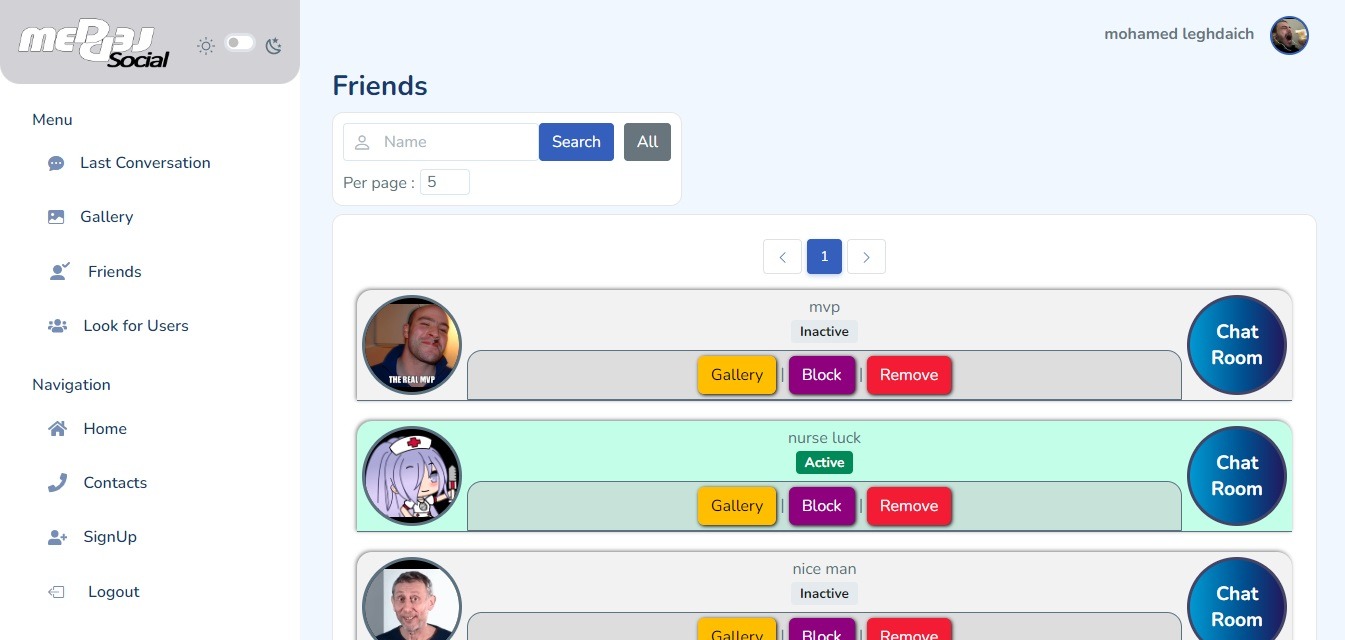
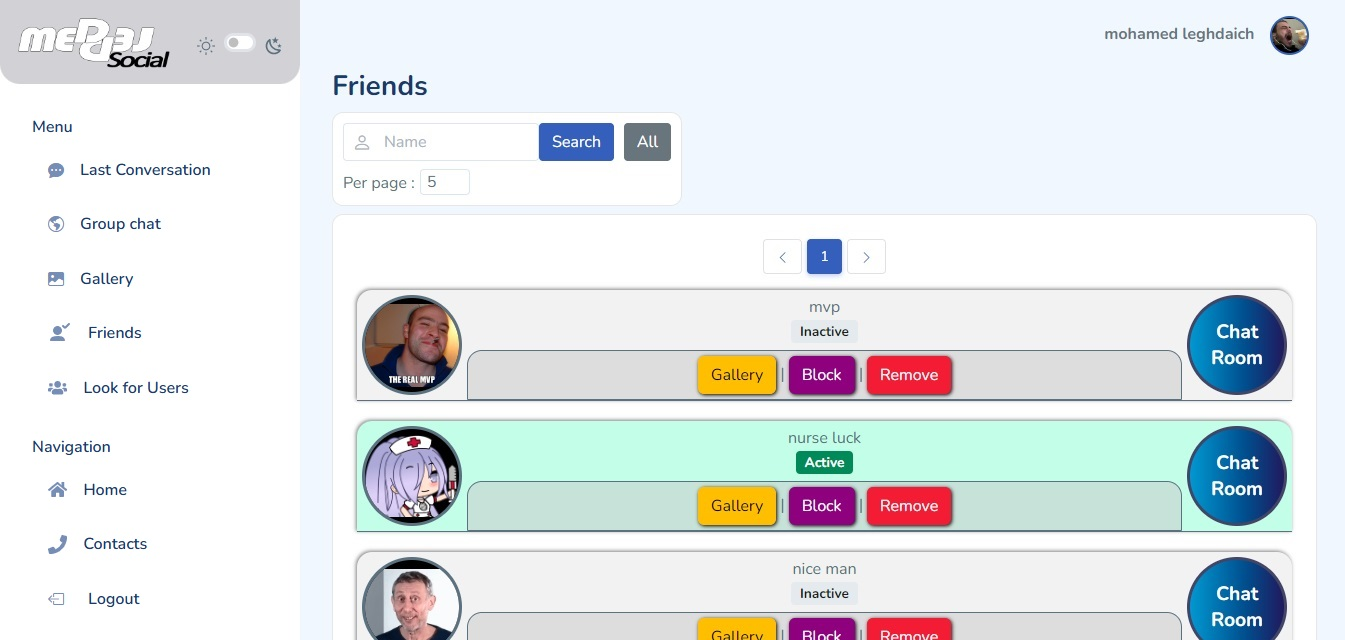
medled update (group chat) + add socket.IO

diff --git a/index-en.html b/index-en.html
@@ -136,7 +136,7 @@
             <div class="progress">
               <span class="skill">
                 <svg xmlns="http://www.w3.org/2000/svg" width="1.2rem" height="1.2rem" viewBox="25 25 200 200"><g fill="none"><path fill="#81cd39" d="M119.878 31.116c4.919-2.815 11.325-2.828 16.239 0c24.722 13.97 49.452 27.917 74.17 41.895c4.65 2.619 7.759 7.793 7.712 13.15v84.045c.035 5.579-3.382 10.877-8.287 13.436c-24.641 13.893-49.27 27.802-73.907 41.695c-5.019 2.87-11.554 2.649-16.418-.457c-7.387-4.282-14.787-8.544-22.175-12.822c-1.51-.9-3.212-1.616-4.278-3.08c.943-1.27 2.628-1.428 3.997-1.983c3.083-.981 5.916-2.555 8.748-4.082c.717-.49 1.591-.302 2.278.136c6.317 3.622 12.579 7.35 18.917 10.937c1.352.781 2.721-.256 3.877-.9c24.18-13.667 48.39-27.281 72.567-40.952c.896-.431 1.391-1.382 1.318-2.363c.017-27.725.004-55.454.009-83.18c.102-1.112-.542-2.136-1.549-2.592c-24.555-13.829-49.099-27.678-73.65-41.51a2.56 2.56 0 0 0-2.892-.005c-24.552 13.837-49.09 27.7-73.642 41.527c-1.003.457-1.676 1.464-1.557 2.58c.005 27.726 0 55.455 0 83.184a2.35 2.35 0 0 0 1.336 2.334c6.551 3.715 13.111 7.404 19.667 11.107c3.694 1.987 8.228 3.169 12.298 1.646c3.59-1.288 6.107-4.953 6.039-8.765c.034-27.563-.017-55.13.025-82.69c-.09-1.223 1.071-2.234 2.261-2.118c3.148-.022 6.3-.043 9.448.008c1.314-.03 2.218 1.288 2.056 2.52c-.013 27.738.034 55.476-.021 83.213c.008 7.393-3.029 15.437-9.867 19.054c-8.423 4.363-18.835 3.438-27.157-.746c-7.204-3.596-14.08-7.84-21.156-11.692c-4.918-2.545-8.318-7.864-8.283-13.439V86.161c-.052-5.468 3.182-10.736 7.975-13.317c24.637-13.903 49.27-27.818 73.902-41.728"/><path fill="#81cd39" d="M141.372 89.335c10.745-.692 22.248-.41 31.917 4.884c7.487 4.056 11.637 12.57 11.769 20.887c-.209 1.121-1.382 1.74-2.453 1.663c-3.117-.004-6.236.043-9.353-.021c-1.323.051-2.091-1.168-2.257-2.337c-.896-3.98-3.067-7.921-6.812-9.841c-5.75-2.878-12.416-2.733-18.687-2.673c-4.576.242-9.498.639-13.376 3.33c-2.977 2.039-3.881 6.155-2.819 9.47c1.002 2.38 3.749 3.148 5.997 3.856c12.95 3.387 26.672 3.049 39.373 7.506c5.26 1.817 10.404 5.35 12.204 10.856c2.355 7.38 1.323 16.2-3.928 22.124c-4.258 4.875-10.459 7.529-16.644 8.97c-8.228 1.835-16.767 1.882-25.123 1.067c-7.857-.896-16.034-2.96-22.099-8.313c-5.187-4.504-7.72-11.522-7.469-18.294c.06-1.144 1.199-1.942 2.295-1.848c3.139-.025 6.279-.034 9.418.005c1.254-.09 2.184.994 2.248 2.176c.579 3.791 2.004 7.771 5.31 10.018c6.381 4.117 14.388 3.835 21.694 3.95c6.052-.268 12.847-.349 17.787-4.35c2.606-2.282 3.378-6.1 2.674-9.384c-.763-2.773-3.664-4.065-6.155-4.91c-12.783-4.043-26.659-2.576-39.318-7.149c-5.14-1.816-10.11-5.25-12.084-10.53c-2.755-7.473-1.493-16.717 4.308-22.44c5.656-5.695 13.82-7.888 21.583-8.672"/></g></svg>
-                NODE/EXPRESS <i class="val">100%</i>
+                JS/NODE <i class="val">100%</i>
               </span>
               <div class="progress-bar-wrap">
                 <div class="progress-bar" role="progressbar" aria-valuenow="100" aria-valuemin="0" aria-valuemax="100"></div>
@@ -233,7 +233,7 @@
           <p><img src="assets/img/tools/splide.png"></p>
           <p><img src="assets/img/tools/emailjs.png"></p>
           <p><img src="assets/img/tools/axios.png"></p>
-          <p><img src="assets/img/tools/pusher.jpg"></p>
+          <p><img src="assets/img/tools/socketIO.png"></p>
           <p><img src="assets/img/tools/multer.png"></p>
           <p><img src="assets/img/tools/express-validator.jpg"></p>
           <p><img src="assets/img/tools/jwt.jpg"></p>

diff --git a/index-fr.html b/index-fr.html
@@ -135,7 +135,7 @@
             <div class="progress">
               <span class="skill">
                 <svg xmlns="http://www.w3.org/2000/svg" width="1.2rem" height="1.2rem" viewBox="25 25 200 200"><g fill="none"><path fill="#81cd39" d="M119.878 31.116c4.919-2.815 11.325-2.828 16.239 0c24.722 13.97 49.452 27.917 74.17 41.895c4.65 2.619 7.759 7.793 7.712 13.15v84.045c.035 5.579-3.382 10.877-8.287 13.436c-24.641 13.893-49.27 27.802-73.907 41.695c-5.019 2.87-11.554 2.649-16.418-.457c-7.387-4.282-14.787-8.544-22.175-12.822c-1.51-.9-3.212-1.616-4.278-3.08c.943-1.27 2.628-1.428 3.997-1.983c3.083-.981 5.916-2.555 8.748-4.082c.717-.49 1.591-.302 2.278.136c6.317 3.622 12.579 7.35 18.917 10.937c1.352.781 2.721-.256 3.877-.9c24.18-13.667 48.39-27.281 72.567-40.952c.896-.431 1.391-1.382 1.318-2.363c.017-27.725.004-55.454.009-83.18c.102-1.112-.542-2.136-1.549-2.592c-24.555-13.829-49.099-27.678-73.65-41.51a2.56 2.56 0 0 0-2.892-.005c-24.552 13.837-49.09 27.7-73.642 41.527c-1.003.457-1.676 1.464-1.557 2.58c.005 27.726 0 55.455 0 83.184a2.35 2.35 0 0 0 1.336 2.334c6.551 3.715 13.111 7.404 19.667 11.107c3.694 1.987 8.228 3.169 12.298 1.646c3.59-1.288 6.107-4.953 6.039-8.765c.034-27.563-.017-55.13.025-82.69c-.09-1.223 1.071-2.234 2.261-2.118c3.148-.022 6.3-.043 9.448.008c1.314-.03 2.218 1.288 2.056 2.52c-.013 27.738.034 55.476-.021 83.213c.008 7.393-3.029 15.437-9.867 19.054c-8.423 4.363-18.835 3.438-27.157-.746c-7.204-3.596-14.08-7.84-21.156-11.692c-4.918-2.545-8.318-7.864-8.283-13.439V86.161c-.052-5.468 3.182-10.736 7.975-13.317c24.637-13.903 49.27-27.818 73.902-41.728"/><path fill="#81cd39" d="M141.372 89.335c10.745-.692 22.248-.41 31.917 4.884c7.487 4.056 11.637 12.57 11.769 20.887c-.209 1.121-1.382 1.74-2.453 1.663c-3.117-.004-6.236.043-9.353-.021c-1.323.051-2.091-1.168-2.257-2.337c-.896-3.98-3.067-7.921-6.812-9.841c-5.75-2.878-12.416-2.733-18.687-2.673c-4.576.242-9.498.639-13.376 3.33c-2.977 2.039-3.881 6.155-2.819 9.47c1.002 2.38 3.749 3.148 5.997 3.856c12.95 3.387 26.672 3.049 39.373 7.506c5.26 1.817 10.404 5.35 12.204 10.856c2.355 7.38 1.323 16.2-3.928 22.124c-4.258 4.875-10.459 7.529-16.644 8.97c-8.228 1.835-16.767 1.882-25.123 1.067c-7.857-.896-16.034-2.96-22.099-8.313c-5.187-4.504-7.72-11.522-7.469-18.294c.06-1.144 1.199-1.942 2.295-1.848c3.139-.025 6.279-.034 9.418.005c1.254-.09 2.184.994 2.248 2.176c.579 3.791 2.004 7.771 5.31 10.018c6.381 4.117 14.388 3.835 21.694 3.95c6.052-.268 12.847-.349 17.787-4.35c2.606-2.282 3.378-6.1 2.674-9.384c-.763-2.773-3.664-4.065-6.155-4.91c-12.783-4.043-26.659-2.576-39.318-7.149c-5.14-1.816-10.11-5.25-12.084-10.53c-2.755-7.473-1.493-16.717 4.308-22.44c5.656-5.695 13.82-7.888 21.583-8.672"/></g></svg>
-                NODE/EXPRESS <i class="val">100%</i>
+                JS/NODE <i class="val">100%</i>
               </span>
               <div class="progress-bar-wrap">
                 <div class="progress-bar" role="progressbar" aria-valuenow="100" aria-valuemin="0" aria-valuemax="100"></div>
@@ -232,7 +232,7 @@
           <p><img src="assets/img/tools/splide.png"></p>
           <p><img src="assets/img/tools/emailjs.png"></p>
           <p><img src="assets/img/tools/axios.png"></p>
-          <p><img src="assets/img/tools/pusher.jpg"></p>
+          <p><img src="assets/img/tools/socketIO.png"></p>
           <p><img src="assets/img/tools/multer.png"></p>
           <p><img src="assets/img/tools/express-validator.jpg"></p>
           <p><img src="assets/img/tools/jwt.jpg"></p>

diff --git a/portfolio-details-fr.html b/portfolio-details-fr.html
@@ -168,7 +168,7 @@
       { "id": 4, "title":'Flipper Cube', "category":'Video Game', "tools":'C#', "url":'https://flippercube.netlify.app/', "img1":'games/Flipper Cube.jpg', "img2":'games/Flipper Cube2.jpg', "img3":'games/Flipper Cube3.jpg', "description":'Un jeu de puzzle 3D, trouvez tous les objets et échappez-vous.' },
       { "id": 7, "title":'Gamesman', "category":'Web design', "tools":'Laravel', "url":'http://gamesman.free.nf/?i=1', "img1":'web/gamesman.jpg', "img2":'web/gamesman2.jpg', "img3":'web/gamesman3.jpg', "description":'Une plateforme de partage de jeux Flash et d\'autres jeux basés sur Internet permettant de jouer en ligne. Le projet offre également aux utilisateurs la possibilité de partager leurs propres jeux pour que tout le monde puisse y jouer.' },
       { "id": 9, "title":'James run', "category":'Video Game', "tools":'C#', "url":'https://jamesrun.netlify.app/', "img1":'games/james run.jpg', "img2":'games/james run2.jpg', "img3":'games/james run3.jpg', "description":'Un jeu de course. Jusqu\'où pouvez-vous aller ?' },
-      { "id": 8, "title":'Medled', "category":'Web design', "tools":'Laravel', "url":'http://medled.free.nf/?i=1', "img1":'web/medled.jpg', "img2":'web/medled2.jpg', "img3":'web/medled3.jpg', "description":'Un clone de WhatsApp avec certaines fonctionnalités d\'Instagram. Permettant d\'avoir une liste d\'amis, de créer et de partager une galerie personnelle, et d\'avoir des conversations.' },
+      { "id": 8, "title":'Medled', "category":'Web design', "tools":'Laravel + Node', "url":'http://medled.free.nf/?i=1', "img1":'web/medled.jpg', "img2":'web/medled2.jpg', "img3":'web/medled3.jpg', "description":'Un clone de WhatsApp avec certaines fonctionnalités d\'Instagram. Permettant d\'avoir une liste d\'amis, de créer et de partager une galerie personnelle, et d\'avoir des conversations avec un ami ou plusieurs à la fois en créant un groupe de discussion.' },
       { "id": 10, "title":'Ait oumdis', "category":'Web design', "tools":'HTML/CSS/JS (static)', "url":'https://www.aitoumdis.com/', "img1":'web/ait oumdis.jpg', "img2":'web/ait oumdis2.jpg', "img3":'web/ait oumdis3.jpg', "description":'Le site web créé pour la Coopérative "Ait Oumdis" afin de montrer et vendre leurs produits.' },
       { "id": 11, "title":'Pese.exe', "category":'Desktop', "tools":'VB.Net', "url":'', "img1":'desktop/pese.png', "img2":'desktop/pese2.jpg', "img3":'desktop/pese3.jpg', "description":'Logiciel industriel local pour le pesage des camions.' },
       { "id": 12, "title":'Nurse Luck', "category":'Video Game', "tools":'C#', "url":'https://nurseluck.netlify.app/', "img1":'games/nurseluck.png', "img2":'games/nurseluck2.png', "img3":'games/nurseluck3.png', "description":'Un jeu en 2D, où vous neutralisez des virus et des bactéries dans plusieurs hôpitaux.' },

diff --git a/portfolio-details-en.html b/portfolio-details-en.html
@@ -168,7 +168,7 @@
       { "id": 4, "title":'Flipper Cube', "category":'Video Game', "tools":'C#', "url":'https://flippercube.netlify.app/', "img1":'games/Flipper Cube.jpg', "img2":'games/Flipper Cube2.jpg', "img3":'games/Flipper Cube3.jpg', "description":'A 3d puzzle game, find all the items and escape.' },
       { "id": 7, "title":'Gamesman', "category":'Web design', "tools":'Laravel', "url":'http://gamesman.free.nf/?i=1', "img1":'web/gamesman.jpg', "img2":'web/gamesman2.jpg', "img3":'web/gamesman3.jpg', "description":'A platform sharing flash and other internet based games allowing playing online. The project also gives users the ability to share their own games for everyone to play.' },
       { "id": 9, "title":'James run', "category":'Video Game', "tools":'C#', "url":'https://jamesrun.netlify.app/', "img1":'games/james run.jpg', "img2":'games/james run2.jpg', "img3":'games/james run3.jpg', "description":'A runner game. Where can you reach ?' },
-      { "id": 8, "title":'Medled', "category":'Web design', "tools":'Laravel', "url":'http://medled.free.nf/?i=1', "img1":'web/medled.jpg', "img2":'web/medled2.jpg', "img3":'web/medled3.jpg', "description":'A WhatsApp clone with some Instagram features. Allowing having friends list, creating and sharing a personal gallery, and having conversations.' },
+      { "id": 8, "title":'Medled', "category":'Web design', "tools":'Laravel + Node', "url":'http://medled.free.nf/?i=1', "img1":'web/medled.jpg', "img2":'web/medled2.jpg', "img3":'web/medled3.jpg', "description":'A WhatsApp clone with some Instagram features. Allowing having friends list, creating and sharing a personal gallery, and having conversations with one friend or several at the same time by creating a group chat.' },
       { "id": 10, "title":'Ait oumdis', "category":'Web design', "tools":'HTML/CSS/JS (static)', "url":'https://www.aitoumdis.com/', "img1":'web/ait oumdis.jpg', "img2":'web/ait oumdis2.jpg', "img3":'web/ait oumdis3.jpg', "description":'The website made for the "Ait Oumdis" Cooperative to show and sell their natural products.' },
       { "id": 11, "title":'Pese.exe', "category":'Desktop', "tools":'VB.Net', "url":'', "img1":'desktop/pese.png', "img2":'desktop/pese2.jpg', "img3":'desktop/pese3.jpg', "description":'Local industrial software for weighing trucks.' },
       { "id": 12, "title":'Nurse Luck', "category":'Video Game', "tools":'C#', "url":'https://nurseluck.netlify.app/', "img1":'games/nurseluck.png', "img2":'games/nurseluck2.png', "img3":'games/nurseluck3.png', "description":'A 2d game, where you neutralize viruses and bacteria from multiple hospitals.' },
